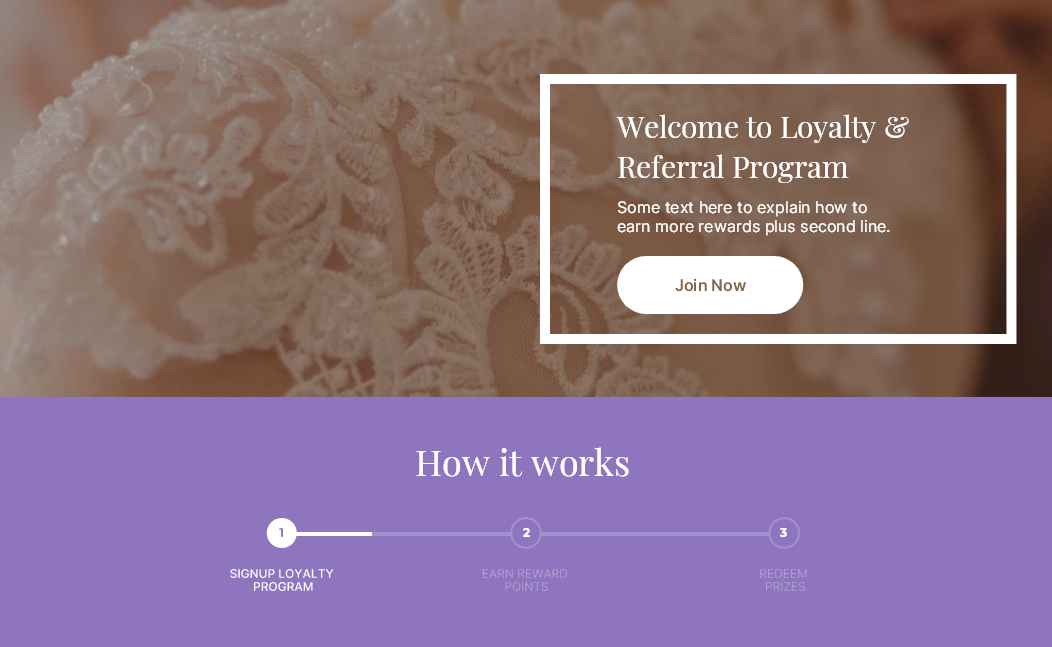
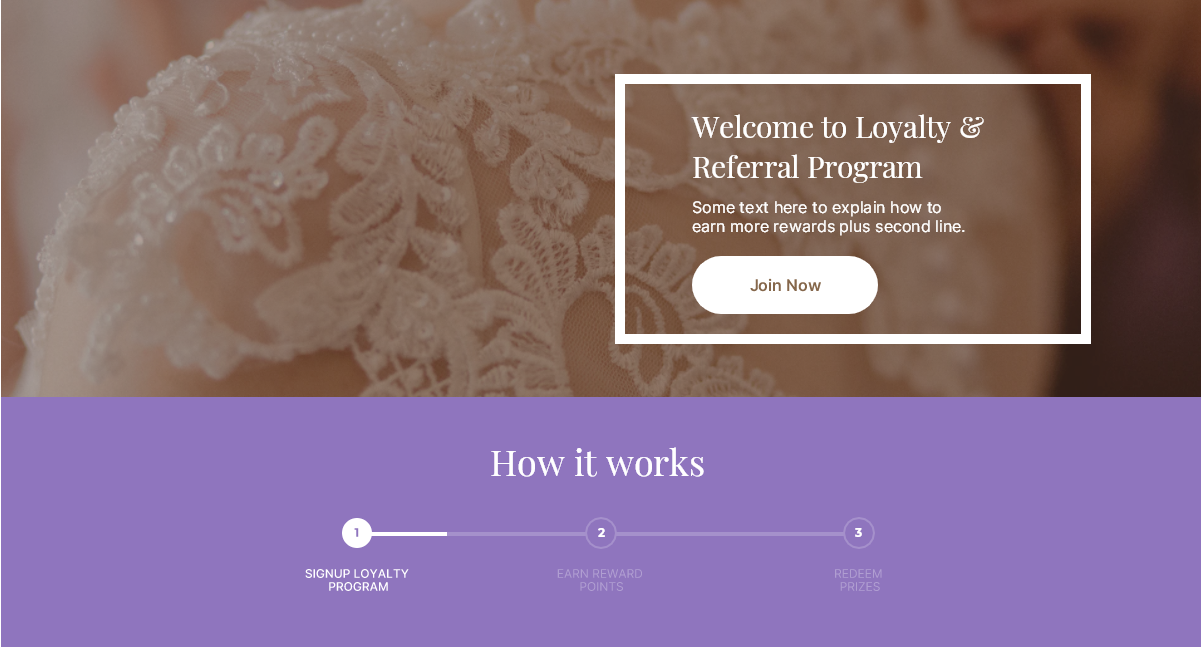
Edit page

diff --git a/src/views/embed/EmbedEdit.vue b/src/views/embed/EmbedEdit.vue
@@ -46,53 +46,59 @@
                 Preview
               </md-button>
             </div>
-            <div class="info">Announcements: Earn Points every time you shop. One dollar = five points.</div>            
-            <div class="">
-              <img src="../../assets/img/template_header.png" alt="" />
-            </div>
-            <div class="cardBlock" :class="{ mobileActive : active_el == '2' }">
-              <div class="item">
-                <div class="title">
-                  <h2>Earn Rewards</h2>
-                  <p>Some text here to explain how to earn more rewards plus second line can come here to explain all that we expect from them.</p>
-                </div>
-                
-                <div class="cntrlBlock">
-                  <div class="btnGr">
-                    <md-button-group>
-                      <md-button class="md-raised active">Active</md-button>
-                      <md-button class="md-raised">Completed</md-button>
-                    </md-button-group>
-                    <md-field>
-                      <md-select v-model="order" name="order" id="order" placeholder="Order">
-                        <md-option value="australia">Highest First</md-option>
-                        <md-option value="brazil">Lowest First</md-option>
-                      </md-select>
-                    </md-field>
+            <div :class="{ mobileActive : active_el == '2' }">
+              <div class="info" v-if="!infoHidden">
+                Announcements: Earn Points every time you shop. One dollar = five points.
+                <span v-on:click="infoHidden = true" class="material-icons" v-if="active_el == '2'">close</span>
+              </div>            
+              <div class="">
+                <img v-if="active_el == '2'" src="../../assets/img/template_header_mobile.png" alt="" style="width:100%;" />
+                <img v-if="active_el == '0' || active_el == '1'" src="../../assets/img/template_header.png" alt="" />
+              </div>
+              <div class="cardBlock">
+                <div class="item">
+                  <div class="title">
+                    <h2>Earn Rewards</h2>
+                    <p>Some text here to explain how to earn more rewards plus second line can come here to explain all that we expect from them.</p>
                   </div>
-                  <div>
-                    fdgdg
+                  
+                  <div class="cntrlBlock">
+                    <div class="btnGr">
+                      <md-button-group>
+                        <md-button class="md-raised active">Active</md-button>
+                        <md-button class="md-raised">Completed</md-button>
+                      </md-button-group>
+                      <md-field>
+                        <md-select v-model="order" name="order" id="order" placeholder="Order">
+                          <md-option value="australia">Highest First</md-option>
+                          <md-option value="brazil">Lowest First</md-option>
+                        </md-select>
+                      </md-field>
+                    </div>
+                    <div>
+                      fdgdg
+                    </div>
                   </div>
                 </div>
-              </div>
-              <div class="item">
-                <CelebrateEvents />
-              </div>
-              <div class="item">
-                <ParticipateActions />
-              </div>
-              <div class="item">
-                <Newsletter />
-              </div>
-              <div class="item">
-                <ReferNearn />
-              </div>
-              <div class="item">
-                <div class="title">
-                  <h2>Redeem Rewards</h2>
-                  <p>Some text here to explain how to earn more rewards plus second line can come here to explain all that we expect from them.</p>
+                <div class="item">
+                  <CelebrateEvents />
                 </div>
-                <Carouselslide />
+                <div class="item">
+                  <ParticipateActions />
+                </div>
+                <div class="item">
+                  <Newsletter />
+                </div>
+                <div class="item">
+                  <ReferNearn />
+                </div>
+                <div class="item">
+                  <div class="title">
+                    <h2>Redeem Rewards</h2>
+                    <p>Some text here to explain how to earn more rewards plus second line can come here to explain all that we expect from them.</p>
+                  </div>
+                  <Carouselslide />
+                </div>
               </div>
             </div>
           </div>
@@ -134,6 +140,7 @@ export default {
     return {
       loader: false,
       isActive: false,
+      infoHidden: false,
       ex3: { label: 'thumb-color', val: 50, color: 'red' },
       menus:[{"id":"1","texto":"laptop", "class":"active"},{"id":"2","texto":"ad_units"}],
       active_el:0
@@ -302,9 +309,7 @@ export default {
     .cardBlock {
       display: flex;
       flex-wrap: wrap;
-      .mobileActive {
-        background: red;
-      }
+      background: #fff;
       .item {
         width: 50%;
 
@@ -356,6 +361,44 @@ export default {
             display: flex;
             md-button-group {
               width: 100%;
+            }
+          }
+        }
+      }
+    }   
+    
+    .mobileActive {
+      width: 395px;
+      margin: 40px auto;
+      background: #4e4e4e;
+      padding: 20px 10px;
+      border-radius: 20px;
+
+      .info {
+        padding: 5px 15px;
+        display: flex;
+        align-items: center;
+        justify-content: space-between;
+        text-align: left;
+        .material-icons {
+          font-size: 16px;
+        }
+      }
+      .cardBlock {
+        .item {
+          .title {
+            padding: 20px 20px;
+            max-width: 100%;
+          }
+        }
+        .cntrlBlock {
+          flex-direction: column-reverse;
+          .btnGr {
+            flex-flow: row wrap;
+            width: 100%;
+            .md-field,
+            md-button-group {
+              flex: 1;
             }
           }
         }
